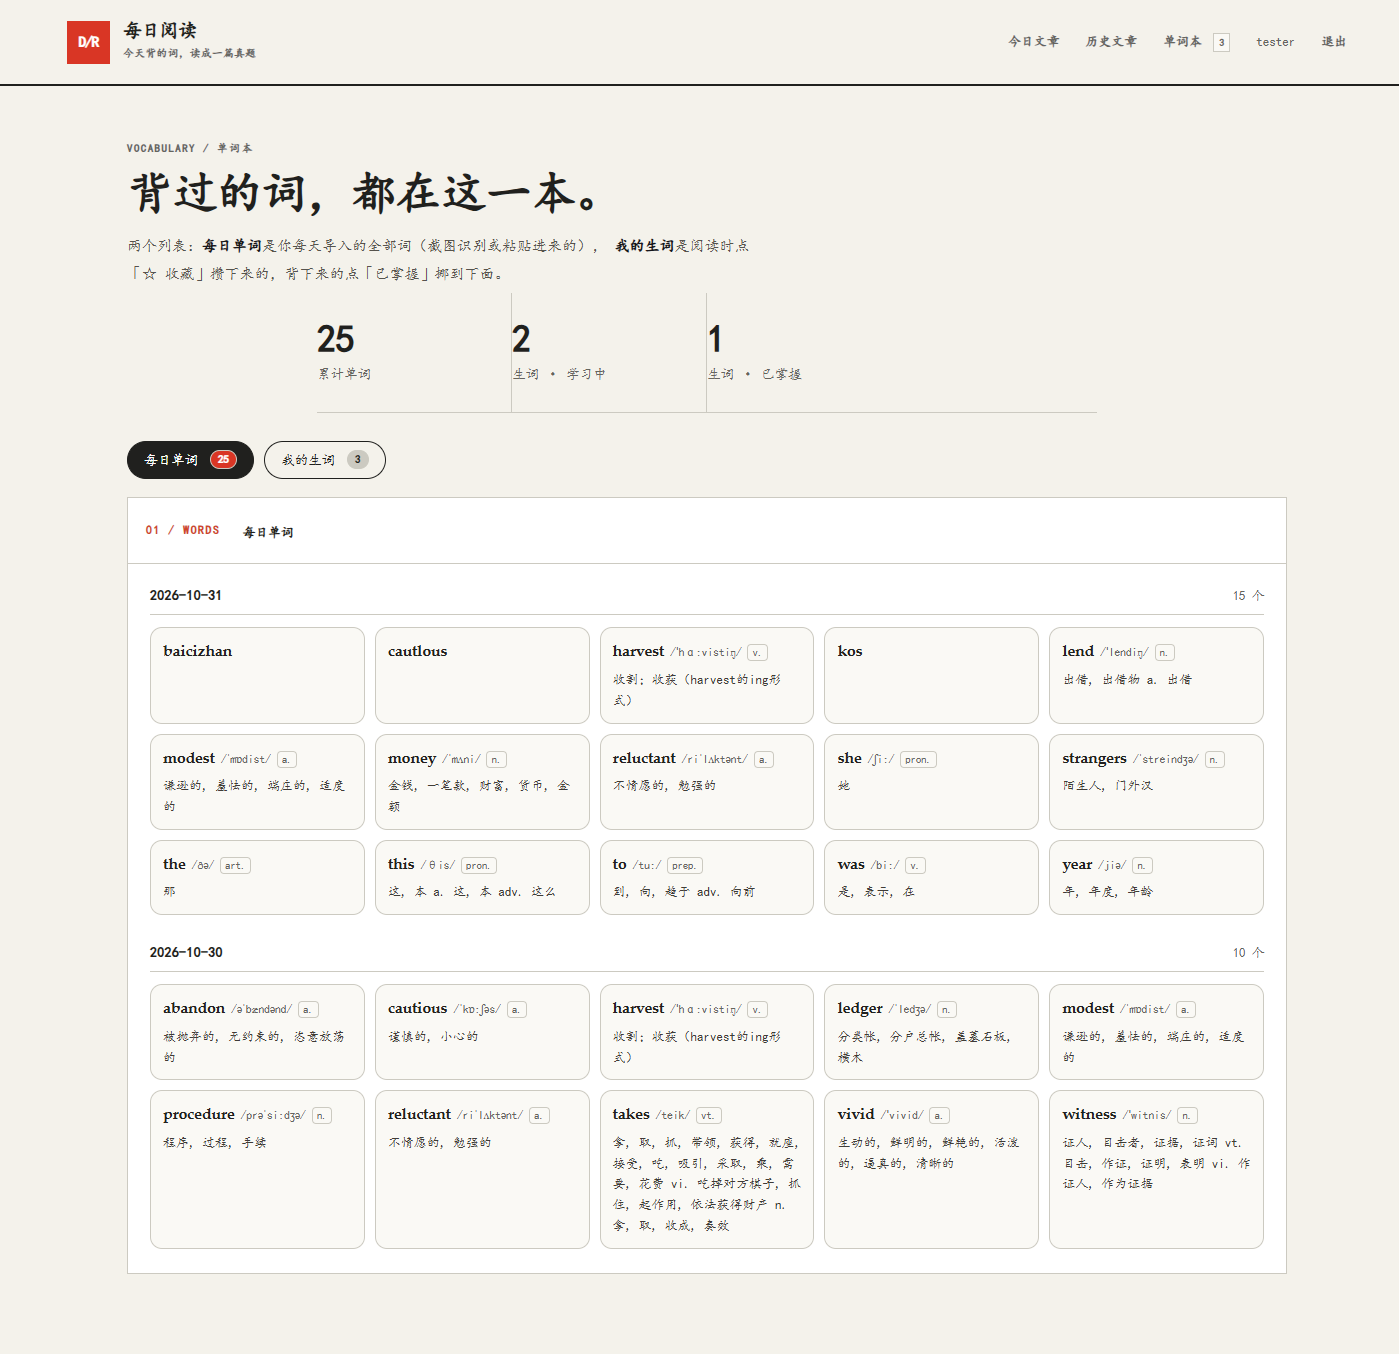
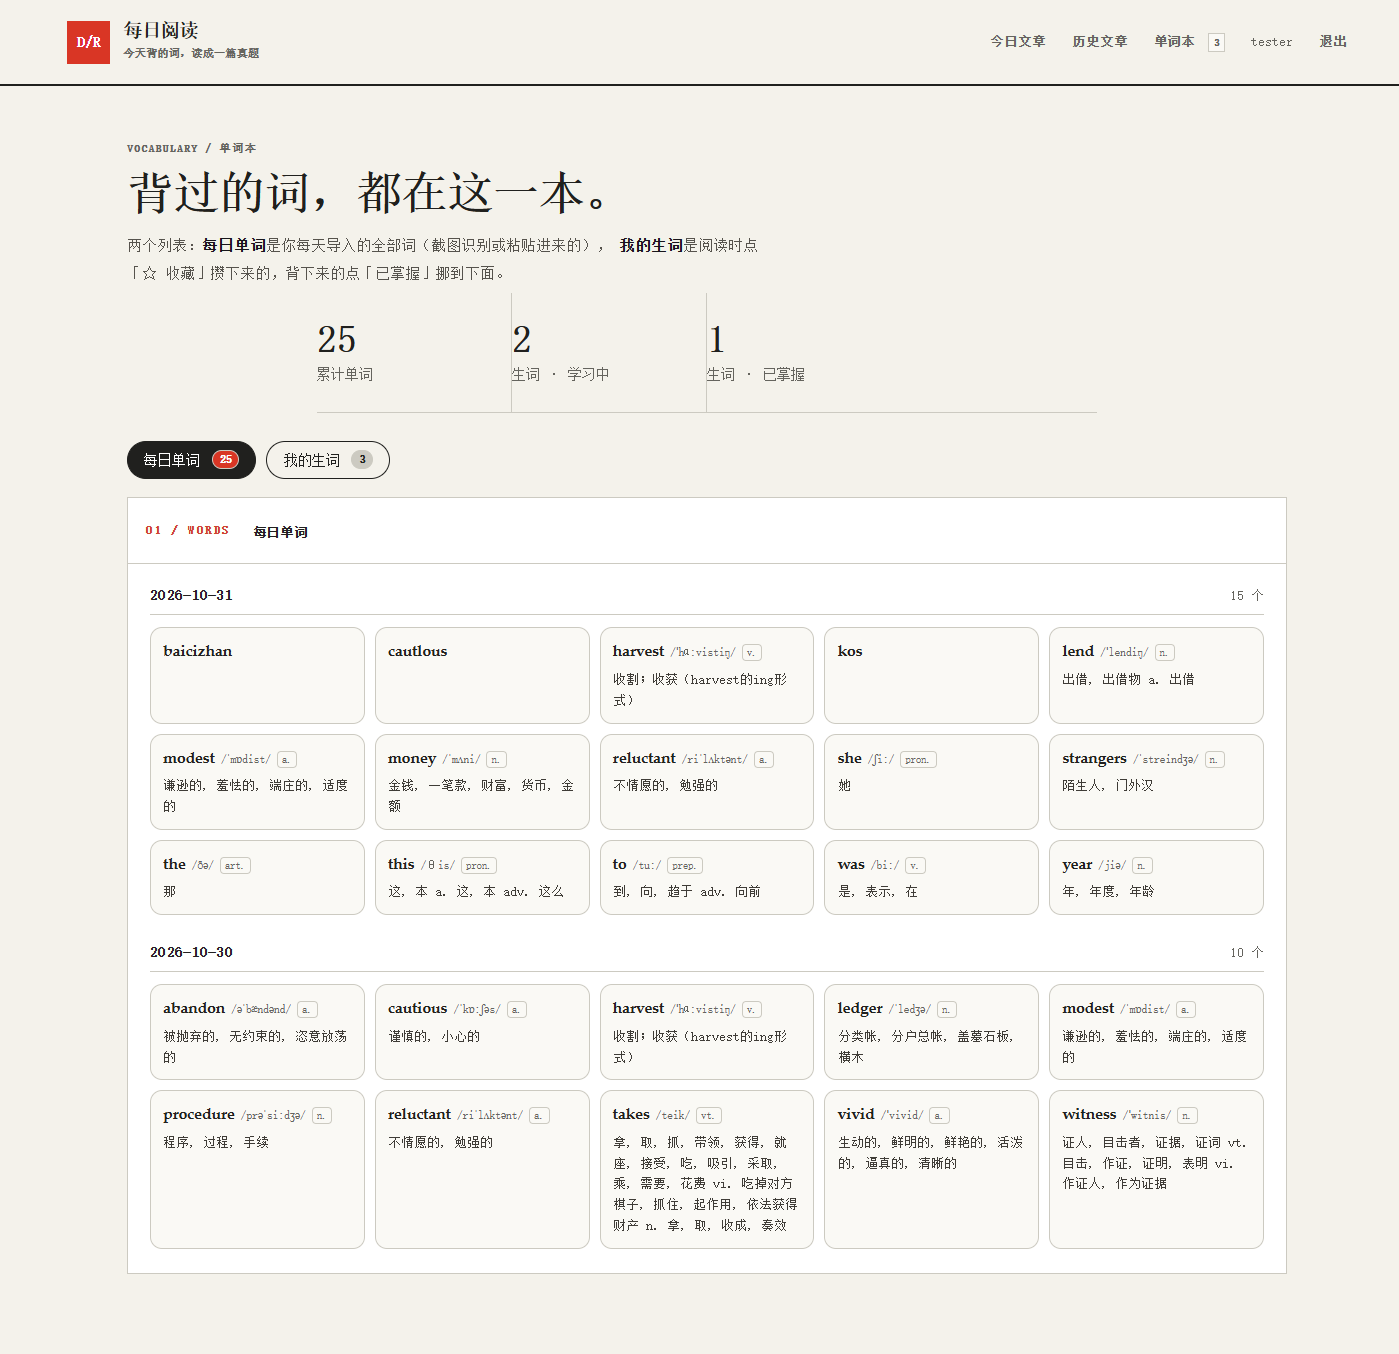
style: 中文字体换成宋体（SimSun）

diff --git a/src/main/resources/static/css/bauhaus.css b/src/main/resources/static/css/bauhaus.css
@@ -1296,3 +1296,10 @@ body.modal-open { overflow: hidden; }
   --serif: "Iowan Old Style", "Palatino Linotype", Palatino, Georgia, "Times New Roman", "KaiTi", "楷体", "STKaiti", serif;
 }
 body, button, input, select, textarea { font-family: var(--sans); }
+
+/* 中文字体统一成宋体：西文仍走前面的拉丁字体，CJK 落到宋体 */
+:root {
+  --sans: "Avenir Next", "Helvetica Neue", "SimSun", "宋体", "Songti SC", "STSong", serif;
+  --serif: "Iowan Old Style", "Palatino Linotype", Palatino, Georgia, "Times New Roman", "SimSun", "宋体", "Songti SC", "STSong", serif;
+}
+body, button, input, select, textarea { font-family: var(--sans); }
